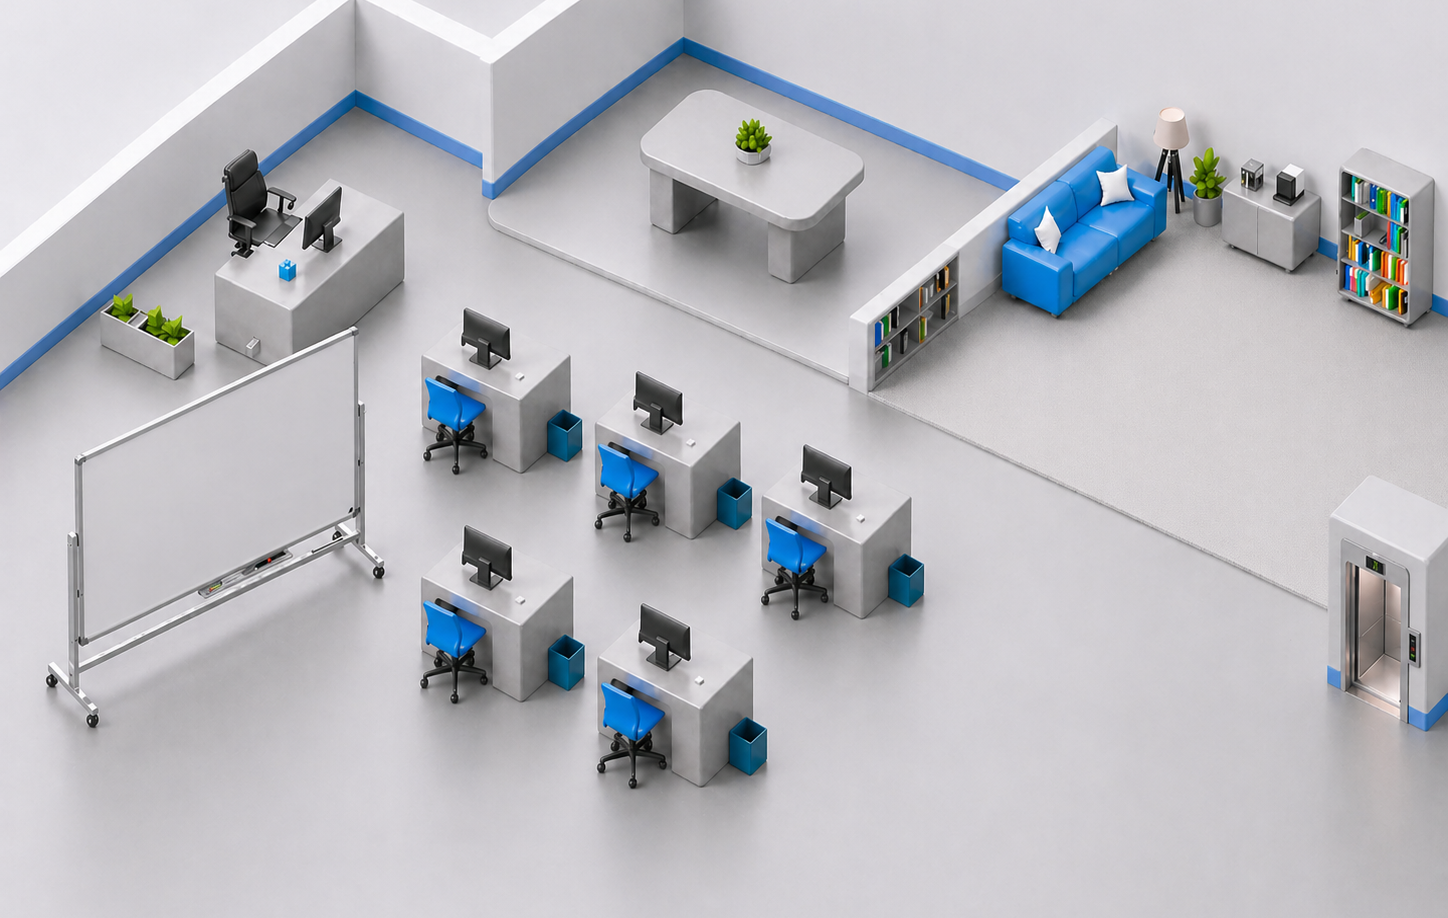
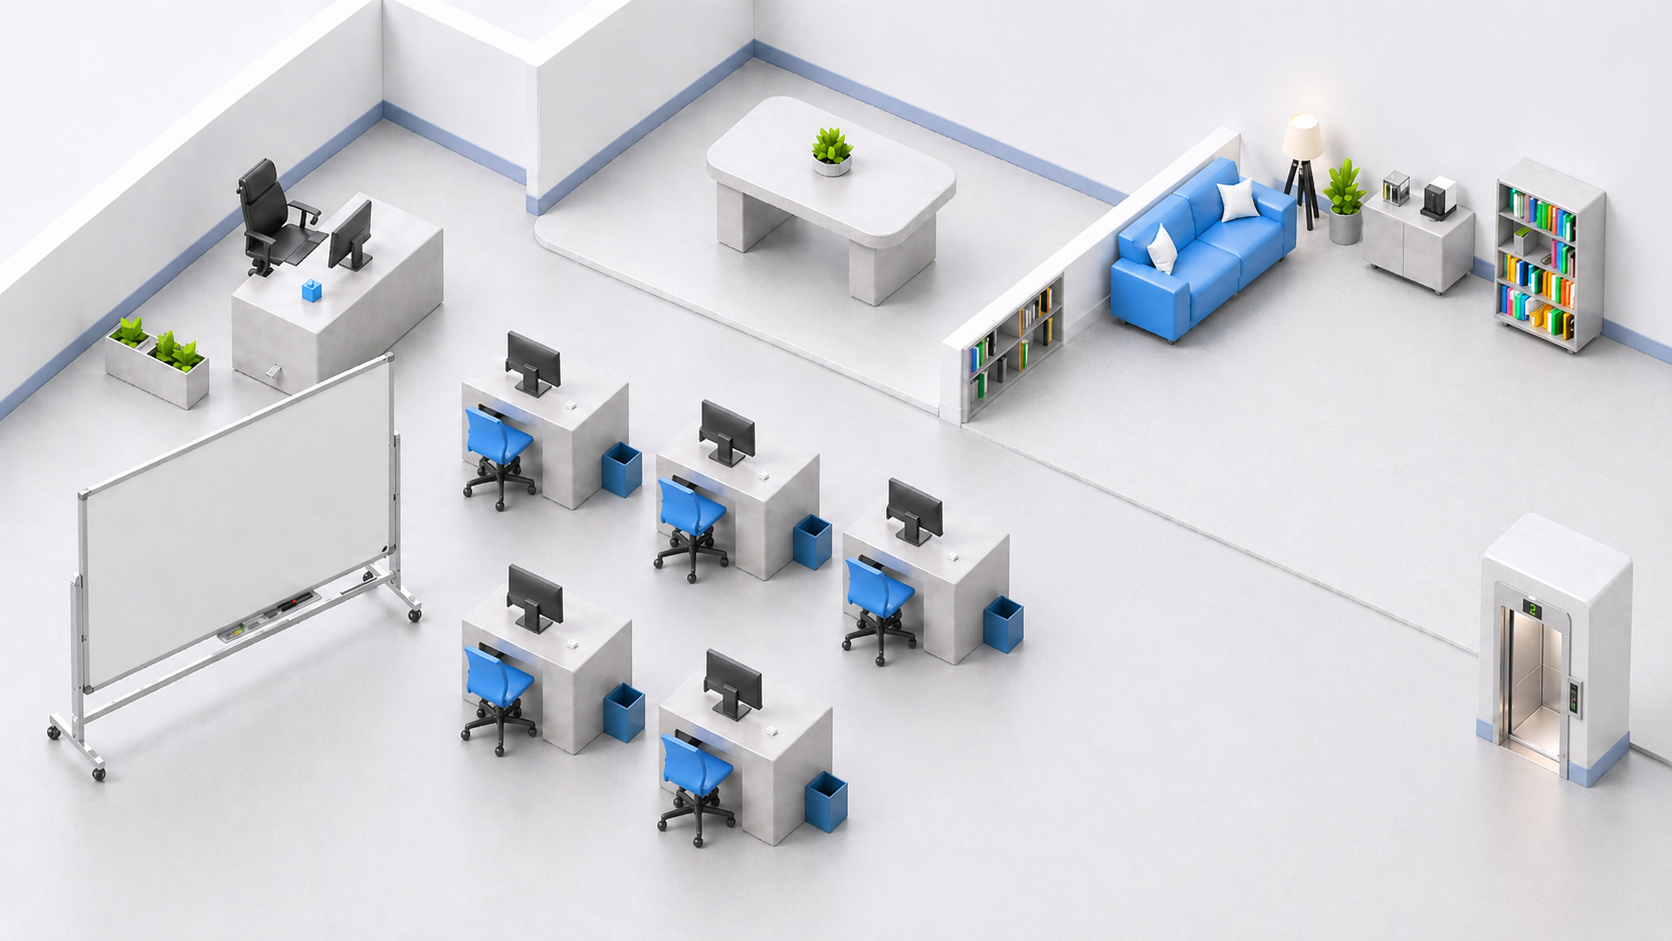
FE-feat : 에이전트 시각화 맵 배경 수정 및 에이전트 동작 임시 구현

diff --git a/frontend/src/pages/AgentStatusPage.tsx b/frontend/src/pages/AgentStatusPage.tsx
@@ -10,6 +10,15 @@ import type {
 // 버튼으로 조작 가능한 에이전트 (API 연결 전 임시)
 const CONTROLLABLE_AGENTS = new Set(['agent01', 'agent02', 'agent05'])
 
+// 에이전트별 고정 목적지 (API 연결 전 임시)
+const AGENT_FIXED_DEST: Record<string, Destination> = {
+  agent01: 'desk',
+  agent02: 'meeting',
+  agent03: 'floorLean',
+  agent04: 'sofa',
+  agent05: 'calling',
+}
+
 // 새 에이전트 추가 시 이 배열에 항목만 추가하면 됩니다.
 const AGENT_CONFIGS: AgentConfig[] = [
   {
@@ -18,7 +27,7 @@ const AGENT_CONFIGS: AgentConfig[] = [
     spritePath: '/assets/agents/agent01',
     initialPosition: { x: 1500, y: 667 },
     destinations: {
-      desk: { x: 494, y: 405 },
+      desk: { x: 470, y: 430 },
       sofa: { x: 1157, y: 257 },
       floorLean: { x: 1440, y: 260 },
       meeting: { x: 904, y: 95 },
@@ -58,7 +67,7 @@ const AGENT_CONFIGS: AgentConfig[] = [
     initialPosition: { x: 1500, y: 770 },
     destinations: {
       desk: { x: 550, y: 405 },
-      sofa: { x: 1157, y: 310 },
+      sofa: { x: 1195, y: 220 },
       floorLean: { x: 1440, y: 310 },
       meeting: { x: 950, y: 95 },
       calling: { x: 1111, y: 658 },
@@ -74,7 +83,7 @@ const AGENT_CONFIGS: AgentConfig[] = [
       sofa: { x: 1110, y: 310 },
       floorLean: { x: 1340, y: 300 },
       meeting: { x: 860, y: 95 },
-      calling: { x: 1111, y: 658 },
+      calling: { x: 1334, y: 665 },
     },
   },
 ]
@@ -116,10 +125,11 @@ function calcDuration(from: { x: number; y: number }, to: { x: number; y: number
 function initAgents(): AgentRuntime[] {
   return AGENT_CONFIGS.map((config) => {
     const isFixed = !CONTROLLABLE_AGENTS.has(config.id)
+    const fixedDest = AGENT_FIXED_DEST[config.id]
     return {
       config,
-      position: isFixed ? { ...config.destinations.floorLean } : { ...config.initialPosition },
-      state: isFixed ? ('sitting_floor_lean' as const) : ('idle' as const),
+      position: isFixed ? { ...config.destinations[fixedDest] } : { ...config.initialPosition },
+      state: isFixed ? DESTINATION_MAP[fixedDest].targetState : ('idle' as const),
       targetState: 'sitting_desk' as const,
       walkFrame: 0 as const,
       transitionDuration: 3,
@@ -130,7 +140,7 @@ function initAgents(): AgentRuntime[] {
 export function AgentStatusPage() {
   const [agents, setAgents] = useState<AgentRuntime[]>(initAgents)
   const [selectedId, setSelectedId] = useState<string>('agent01')
-  const [ceoMode, setCeoMode] = useState<'desk' | 'explain' | null>(null)
+  const [ceoMode, setCeoMode] = useState<'desk' | 'explain'>('desk')
   const walkTimersRef = useRef<Record<string, ReturnType<typeof setTimeout> | undefined>>({})
 
   const clearWalkTimer = (agentId: string) => {
@@ -209,36 +219,31 @@ export function AgentStatusPage() {
         <div className="flex flex-col gap-2.5 rounded-2xl border border-white/20 bg-black/60 px-5 py-3 shadow-2xl backdrop-blur-md">
           {/* 에이전트 탭 */}
           <div className="flex items-center gap-1.5">
-            {agents.map((agent) => (
-              <button
-                key={agent.config.id}
-                onClick={() => setSelectedId(agent.config.id)}
-                className={`relative rounded-lg px-3 py-1 text-xs font-bold transition-colors ${
-                  selectedId === agent.config.id
-                    ? 'bg-white text-gray-900'
-                    : 'bg-white/10 text-white/60 hover:bg-white/20 hover:text-white'
-                }`}
-              >
-                {agent.config.id.replace('agent', '')}
-                <span
-                  className={`absolute -top-0.5 -right-0.5 h-2 w-2 rounded-full border border-black/50 ${stateColor(agent.state)} ${agent.state === 'walking' ? 'animate-pulse' : ''}`}
-                />
-              </button>
-            ))}
+            {agents
+              .filter((agent) => CONTROLLABLE_AGENTS.has(agent.config.id))
+              .map((agent) => (
+                <button
+                  key={agent.config.id}
+                  onClick={() => setSelectedId(agent.config.id)}
+                  className={`relative rounded-lg px-3 py-1 text-xs font-bold transition-colors ${
+                    selectedId === agent.config.id
+                      ? 'bg-white text-gray-900'
+                      : 'bg-white/10 text-white/60 hover:bg-white/20 hover:text-white'
+                  }`}
+                >
+                  {agent.config.id.replace('agent', '')}
+                  <span
+                    className={`absolute -top-0.5 -right-0.5 h-2 w-2 rounded-full border border-black/50 ${stateColor(agent.state)} ${agent.state === 'walking' ? 'animate-pulse' : ''}`}
+                  />
+                </button>
+              ))}
             <div className="mx-0.5 h-4 w-px bg-white/20" />
-            {(['desk', 'explain'] as const).map((mode) => (
-              <button
-                key={mode}
-                onClick={() => setCeoMode((prev) => (prev === mode ? null : mode))}
-                className={`rounded-lg px-3 py-1 text-xs font-bold transition-colors ${
-                  ceoMode === mode
-                    ? 'bg-amber-400 text-gray-900'
-                    : 'bg-white/10 text-white/40 hover:bg-white/20 hover:text-white'
-                }`}
-              >
-                {mode === 'desk' ? 'CEO 책상' : 'CEO 화이트보드'}
-              </button>
-            ))}
+            <button
+              onClick={() => setCeoMode((prev) => (prev === 'desk' ? 'explain' : 'desk'))}
+              className="rounded-lg bg-amber-400 px-3 py-1 text-xs font-bold text-gray-900 transition-colors hover:bg-amber-300"
+            >
+              {ceoMode === 'desk' ? 'CEO 책상' : 'CEO 화이트보드'}
+            </button>
           </div>
 
           {/* 선택된 에이전트 컨트롤 */}
@@ -248,27 +253,28 @@ export function AgentStatusPage() {
                 <span className="text-sm font-medium text-white">{selectedAgent.config.name}</span>
                 <span className="text-xs text-white/50">{STATE_LABELS[selectedAgent.state]}</span>
               </div>
-              {CONTROLLABLE_AGENTS.has(selectedAgent.config.id) && (
-                <div className="flex gap-1.5">
-                  {(Object.keys(DESTINATION_MAP) as Destination[]).map((dest) => (
-                    <button
-                      key={dest}
-                      onClick={() => handleMove(selectedAgent.config.id, dest)}
-                      disabled={selectedAgent.state !== 'idle'}
-                      className="rounded-lg bg-white px-3 py-1.5 text-xs font-semibold text-gray-900 shadow-sm transition-opacity hover:bg-white/90 disabled:cursor-not-allowed disabled:opacity-40"
-                    >
-                      {DESTINATION_MAP[dest].label}으로
-                    </button>
-                  ))}
-                  <button
-                    onClick={() => handleReset(selectedAgent.config.id)}
-                    disabled={selectedAgent.state === 'idle'}
-                    className="rounded-lg border border-white/30 px-3 py-1.5 text-xs font-medium text-white transition-opacity hover:bg-white/10 disabled:cursor-not-allowed disabled:opacity-40"
-                  >
-                    초기화
-                  </button>
-                </div>
-              )}
+              {CONTROLLABLE_AGENTS.has(selectedAgent.config.id) &&
+                (() => {
+                  const dest = AGENT_FIXED_DEST[selectedAgent.config.id]
+                  return (
+                    <div className="flex gap-1.5">
+                      <button
+                        onClick={() => handleMove(selectedAgent.config.id, dest)}
+                        disabled={selectedAgent.state !== 'idle'}
+                        className="rounded-lg bg-white px-3 py-1.5 text-xs font-semibold text-gray-900 shadow-sm transition-opacity hover:bg-white/90 disabled:cursor-not-allowed disabled:opacity-40"
+                      >
+                        {DESTINATION_MAP[dest].label}
+                      </button>
+                      <button
+                        onClick={() => handleReset(selectedAgent.config.id)}
+                        disabled={selectedAgent.state === 'idle'}
+                        className="rounded-lg border border-white/30 px-3 py-1.5 text-xs font-medium text-white transition-opacity hover:bg-white/10 disabled:cursor-not-allowed disabled:opacity-40"
+                      >
+                        초기화
+                      </button>
+                    </div>
+                  )
+                })()}
             </div>
           )}
         </div>

diff --git a/frontend/src/components/office/OfficeMap.tsx b/frontend/src/components/office/OfficeMap.tsx
@@ -6,10 +6,9 @@ const MAP_WIDTH = 1600
 const MAP_HEIGHT = 900
 
 const CEO_SPRITES = {
-  desk: { src: '/assets/agents/ceo/ceo_desk.png', x: 310, y: 215 },
-  explain: { src: '/assets/agents/ceo/ceo_explain.png', x: 383, y: 493 },
+  desk: { src: '/assets/agents/ceo/ceo_desk.png', x: 310, y: 215, size: 230 },
+  explain: { src: '/assets/agents/ceo/ceo_explain.png', x: 383, y: 493, size: 210 },
 }
-const CEO_SIZE = 220
 
 interface OfficeMapProps {
   agents: AgentRuntime[]
@@ -94,9 +93,9 @@ export function OfficeMap({ agents, onAgentArrived, ceoMode }: OfficeMapProps) {
                   position: 'absolute',
                   top: 0,
                   left: 0,
-                  width: CEO_SIZE,
-                  height: CEO_SIZE,
-                  transform: `translate(${sprite.x - CEO_SIZE / 2}px, ${sprite.y - CEO_SIZE / 2}px)`,
+                  width: sprite.size,
+                  height: sprite.size,
+                  transform: `translate(${sprite.x - sprite.size / 2}px, ${sprite.y - sprite.size / 2}px)`,
                   zIndex: 10,
                   pointerEvents: 'none',
                 }}
